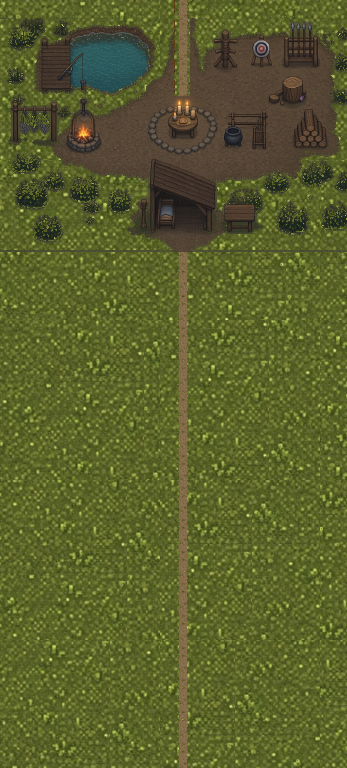
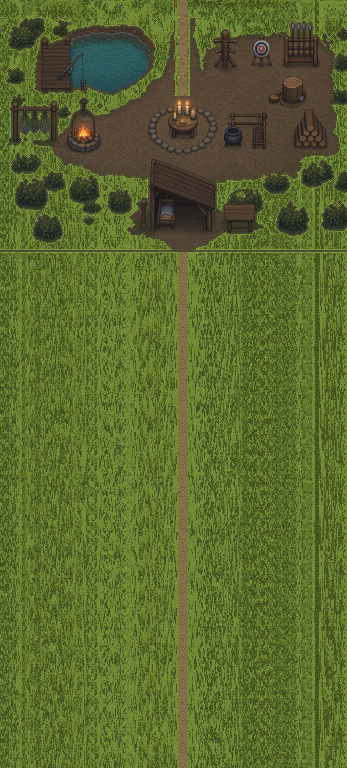
Flow the farm grass into the meadow at the same pixel size.

diff --git a/src/game/assets.ts b/src/game/assets.ts
@@ -1,5 +1,5 @@
 /** Bump this when the pictures change so phones and computers drop the old files. */
-export const ART = "20260927m";
+export const ART = "20260927n";
 
 function art(path: string): string {
   return `${path}?v=${ART}`;
